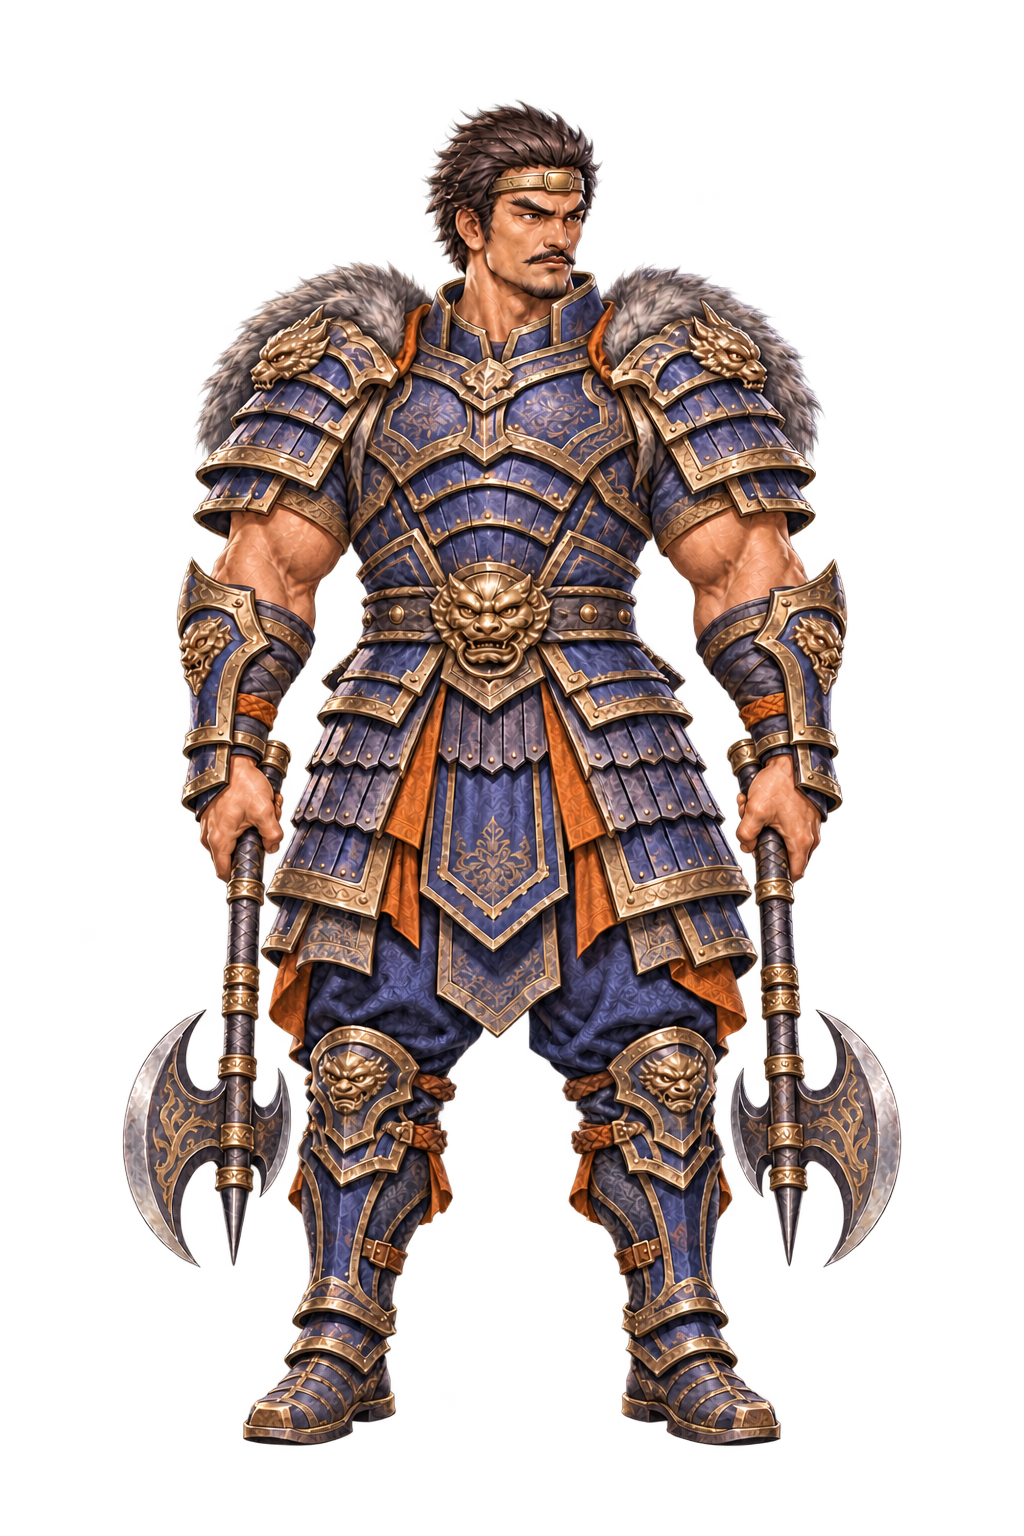
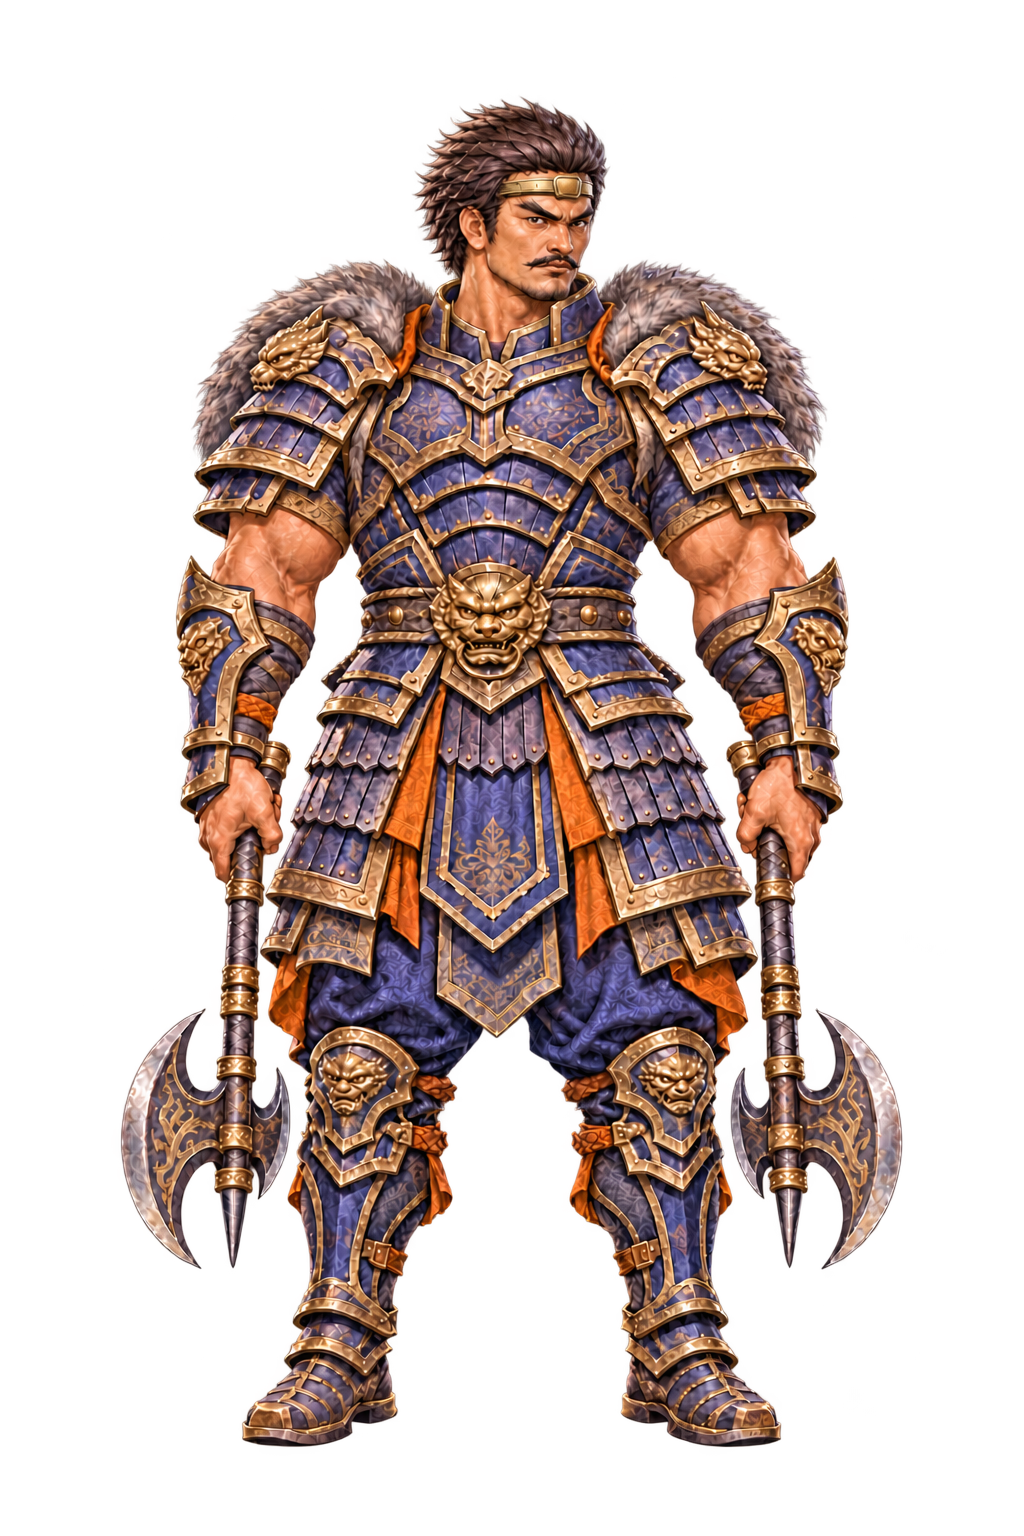
art: PROG-2-10056 典韋四件組重畫版

Changed region(s): [[0.0938, 0.0625, 0.9062, 0.9375]]

diff --git a/docs/agent-briefs/tasks/PROG/PROG-2-10056.md b/docs/agent-briefs/tasks/PROG/PROG-2-10056.md
@@ -8,7 +8,9 @@ phase: M0
 created: 2026-11-26
 created_by_agent: ClaudeCode_claude-opus-5-5
 owner: codex-gpt-6.2-sol
-status: open
+status: in-progress
+started_at: 2026-11-26T15:04:04+08:00
+started_by_agent: codex-gpt-6.2-sol
 type: implementation
 depends: []
 notes: "2026-11-26 | 狀態: open | 驗證: pending | 變更: ClaudeCode_claude-opus-5-5 開傘卡，owner 指派 codex-gpt-6.2-sol，未上鎖 | 阻塞: 無"
